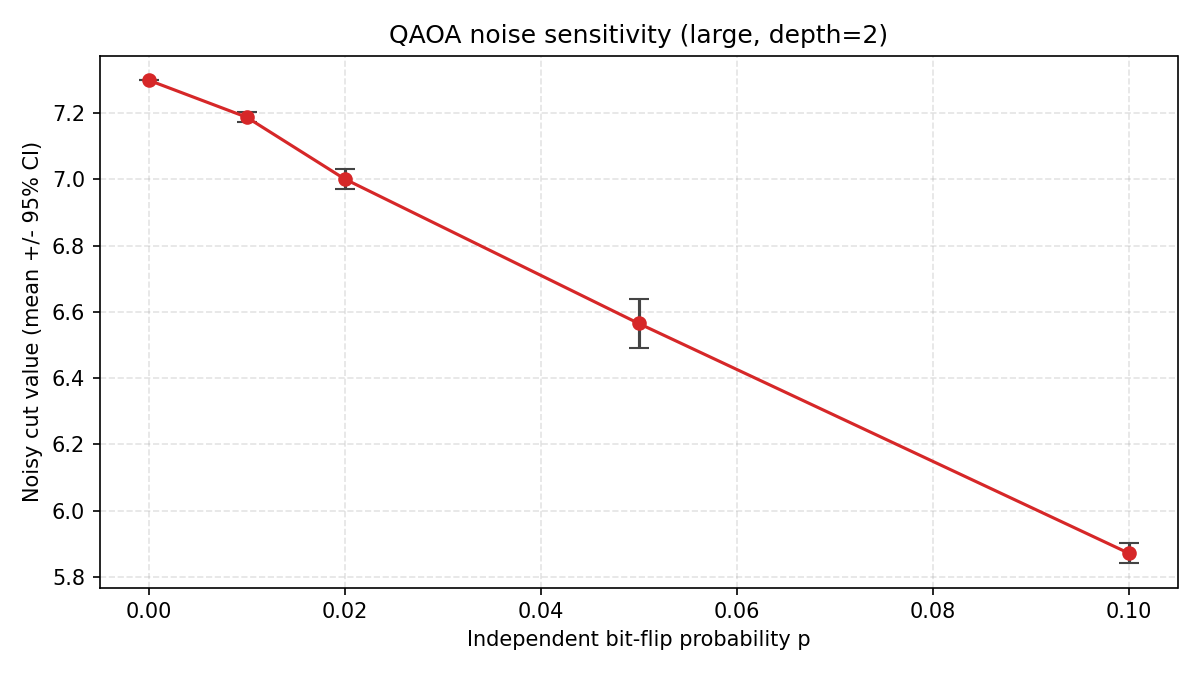
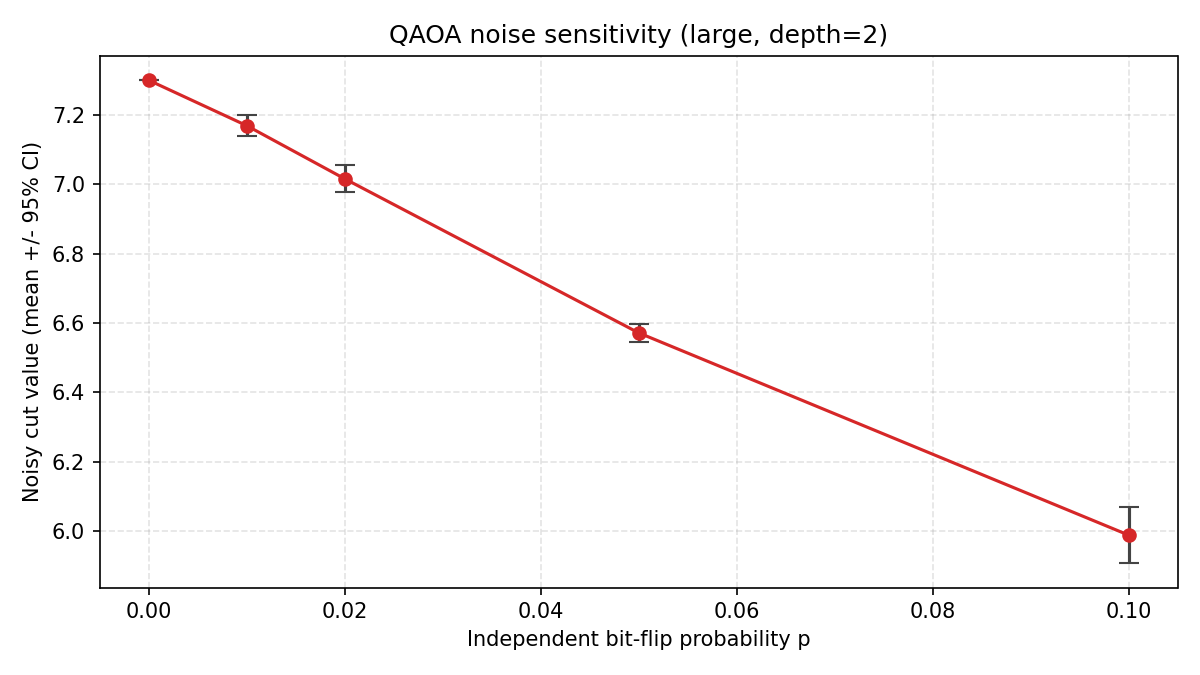
Refresh QAOA noise-sweep evidence after depth reruns

diff --git a/problems/05_qaoa_maxcut/README.md b/problems/05_qaoa_maxcut/README.md
@@ -119,9 +119,9 @@ Current progress toward Stage C:
 - Medium-instance depth sweep (`d=1,2`) is available in `estimates/depth_sweep_medium.md` (best refined mean `2.8316` at depth 2).
 - Large-instance depth sweep (`d=1,2`) is available in `estimates/depth_sweep_large.md` (best refined mean `4.1578` at depth 2).
 - Noise-sensitivity sweeps can now be generated via `make noise-sweep` (or `python/noise_sweep.py`) and are surfaced in the summary dashboard when present.
-- Small-instance noise sweep at depth 3 is available in `estimates/noise_sweep_small_d3.md` (degrades from `2.2000` at `p=0.00` to `1.9646` at `p=0.10`).
-- Medium-instance noise sweep at depth 2 is available in `estimates/noise_sweep_medium_d2.md` (degrades from `4.0000` at `p=0.00` to `3.3325` at `p=0.10`).
-- Large-instance noise sweep at depth 2 is available in `estimates/noise_sweep_large_d2.md` (degrades from `7.3000` at `p=0.00` to `5.8714` at `p=0.10`).
+- Small-instance noise sweep at depth 3 is available in `estimates/noise_sweep_small_d3.md` (degrades from `2.2000` at `p=0.00` to `1.9521` at `p=0.10`).
+- Medium-instance noise sweep at depth 2 is available in `estimates/noise_sweep_medium_d2.md` (degrades from `4.0000` at `p=0.00` to `3.3164` at `p=0.10`).
+- Large-instance noise sweep at depth 2 is available in `estimates/noise_sweep_large_d2.md` (degrades from `7.3000` at `p=0.00` to `5.9883` at `p=0.10`).
 - Medium-instance uncertainty report is now available in `estimates/quantum_baseline_medium_d1.json`.
 - Large-instance uncertainty report is now available in `estimates/quantum_baseline_large_d1.json`.
 - Hardware-targeted estimator routing is now wired through `python/prepare_estimator_params.py` and `tooling/estimator/run_estimation.py`.

diff --git a/problems/05_qaoa_maxcut/estimates/quantum_classical_summary.md b/problems/05_qaoa_maxcut/estimates/quantum_classical_summary.md
@@ -20,6 +20,6 @@ This summary is auto-generated from `estimates/classical_baseline.json` and `est
 
 | Instance/Depth | Noise Levels | Low-Noise Mean (p=min) | High-Noise Mean (p=max) | Degradation |
 |---|---|---:|---:|---:|
-| large::d2 | 0.000, 0.010, 0.020, 0.050, 0.100 | 7.3000 | 5.8714 | 1.4286 |
-| medium::d2 | 0.000, 0.010, 0.020, 0.050, 0.100 | 4.0000 | 3.3325 | 0.6675 |
-| small::d3 | 0.000, 0.010, 0.020, 0.050, 0.100 | 2.2000 | 1.9646 | 0.2354 |
+| large::d2 | 0.000, 0.010, 0.020, 0.050, 0.100 | 7.3000 | 5.9883 | 1.3117 |
+| medium::d2 | 0.000, 0.010, 0.020, 0.050, 0.100 | 4.0000 | 3.3164 | 0.6836 |
+| small::d3 | 0.000, 0.010, 0.020, 0.050, 0.100 | 2.2000 | 1.9521 | 0.2479 |

diff --git a/problems/05_qaoa_maxcut/estimates/noise_sweep_medium_d2.md b/problems/05_qaoa_maxcut/estimates/noise_sweep_medium_d2.md
@@ -6,7 +6,7 @@ Source quantum report: `quantum_baseline_medium_d2.json`
 | Noise p | Noisy Mean +/- 95% CI | Mean Gap To Optimum | Retention vs Optimum |
 |---:|---:|---:|---:|
 | 0.000 | 4.0000 +/- 0.0000 | 0.0000 | 100.0% |
-| 0.010 | 3.9434 +/- 0.0160 | 0.0566 | 98.6% |
-| 0.020 | 3.8594 +/- 0.0266 | 0.1406 | 96.5% |
-| 0.050 | 3.6919 +/- 0.0488 | 0.3081 | 92.3% |
-| 0.100 | 3.3325 +/- 0.0594 | 0.6675 | 83.3% |
+| 0.010 | 3.9473 +/- 0.0143 | 0.0527 | 98.7% |
+| 0.020 | 3.8590 +/- 0.0219 | 0.1410 | 96.5% |
+| 0.050 | 3.6494 +/- 0.0305 | 0.3506 | 91.2% |
+| 0.100 | 3.3164 +/- 0.0411 | 0.6836 | 82.9% |

diff --git a/problems/05_qaoa_maxcut/estimates/noise_sweep_large_d2.md b/problems/05_qaoa_maxcut/estimates/noise_sweep_large_d2.md
@@ -6,7 +6,7 @@ Source quantum report: `quantum_baseline_large_d2.json`
 | Noise p | Noisy Mean +/- 95% CI | Mean Gap To Optimum | Retention vs Optimum |
 |---:|---:|---:|---:|
 | 0.000 | 7.3000 +/- 0.0000 | 0.0000 | 100.0% |
-| 0.010 | 7.1882 +/- 0.0160 | 0.1118 | 98.5% |
-| 0.020 | 7.0017 +/- 0.0303 | 0.2983 | 95.9% |
-| 0.050 | 6.5652 +/- 0.0730 | 0.7348 | 89.9% |
-| 0.100 | 5.8714 +/- 0.0312 | 1.4286 | 80.4% |
+| 0.010 | 7.1690 +/- 0.0293 | 0.1310 | 98.2% |
+| 0.020 | 7.0158 +/- 0.0391 | 0.2842 | 96.1% |
+| 0.050 | 6.5715 +/- 0.0259 | 0.7285 | 90.0% |
+| 0.100 | 5.9883 +/- 0.0818 | 1.3117 | 82.0% |

diff --git a/problems/05_qaoa_maxcut/estimates/noise_sweep_small_d3.md b/problems/05_qaoa_maxcut/estimates/noise_sweep_small_d3.md
@@ -6,7 +6,7 @@ Source quantum report: `quantum_baseline_small_d3.json`
 | Noise p | Noisy Mean +/- 95% CI | Mean Gap To Optimum | Retention vs Optimum |
 |---:|---:|---:|---:|
 | 0.000 | 2.2000 +/- 0.0000 | 0.0000 | 100.0% |
-| 0.010 | 2.1766 +/- 0.0073 | 0.0234 | 98.9% |
-| 0.020 | 2.1482 +/- 0.0041 | 0.0518 | 97.6% |
-| 0.050 | 2.0754 +/- 0.0253 | 0.1246 | 94.3% |
-| 0.100 | 1.9646 +/- 0.0229 | 0.2354 | 89.3% |
+| 0.010 | 2.1760 +/- 0.0051 | 0.0240 | 98.9% |
+| 0.020 | 2.1411 +/- 0.0122 | 0.0589 | 97.3% |
+| 0.050 | 2.0747 +/- 0.0230 | 0.1253 | 94.3% |
+| 0.100 | 1.9521 +/- 0.0222 | 0.2479 | 88.7% |

diff --git a/problems/05_qaoa_maxcut/estimates/evidence_quality_report.md b/problems/05_qaoa_maxcut/estimates/evidence_quality_report.md
@@ -26,6 +26,6 @@ Status: **pass**
 
 | Instance | Depth | Points | Degradation |
 |---|---:|---:|---:|
-| small | 3 | 5 | 0.2354 |
-| medium | 2 | 5 | 0.6675 |
-| large | 2 | 5 | 1.4286 |
+| small | 3 | 5 | 0.2479 |
+| medium | 2 | 5 | 0.6836 |
+| large | 2 | 5 | 1.3117 |
